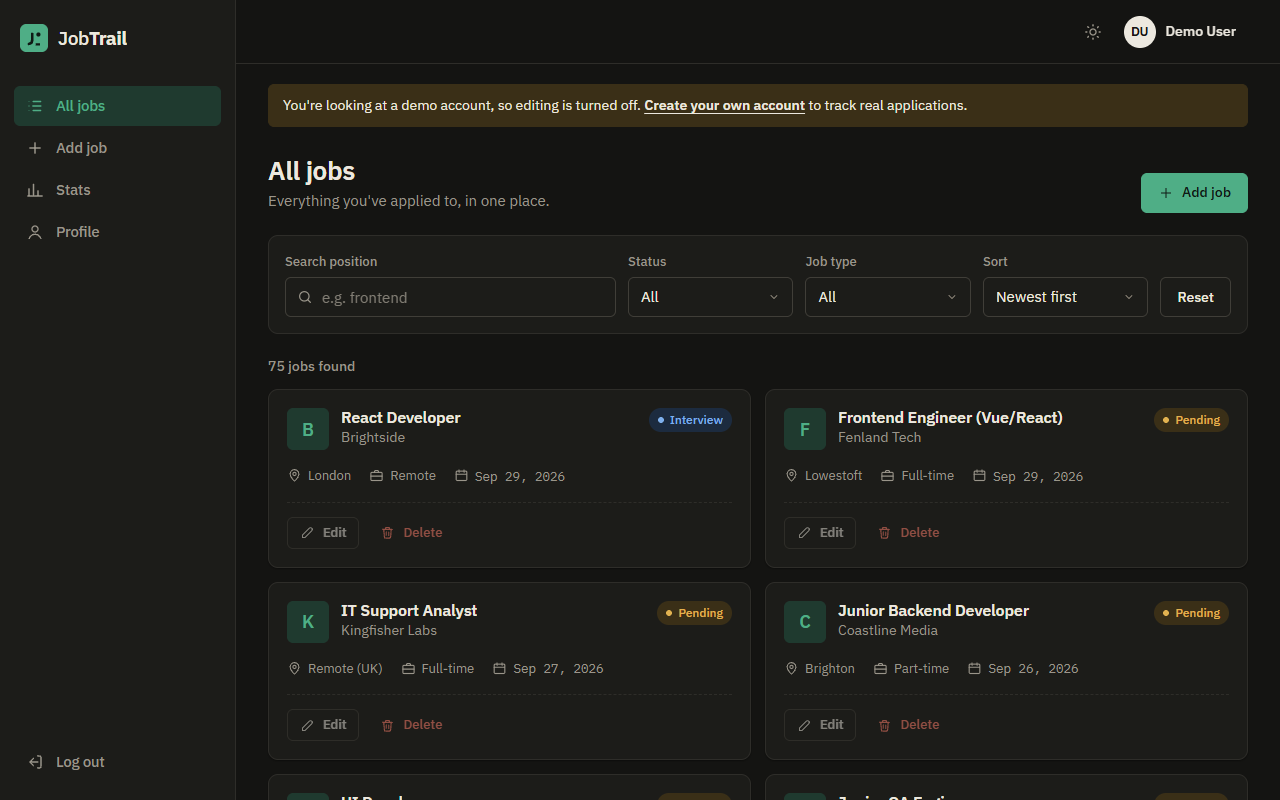
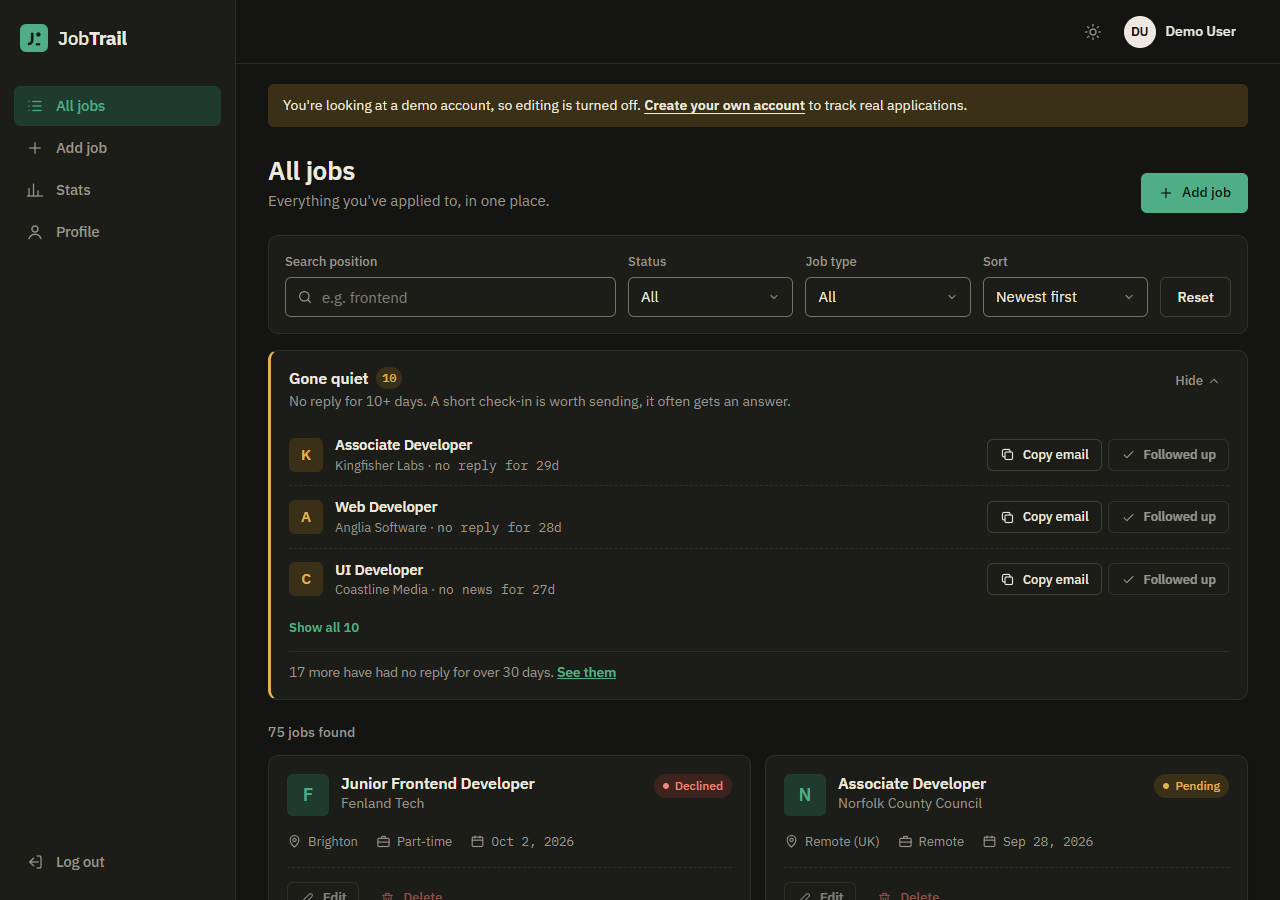
update readme and screenshots

diff --git a/README.md b/README.md
@@ -9,11 +9,12 @@ Built as a test task for a junior MERN position.
 
 > The app runs on Render's free plan, so the first request after a while can take up to a minute while the server wakes up.
 
-![All jobs page](docs/jobs-light.png)
+![All jobs page with the follow-up panel](docs/jobs-light.png)
 
 <details>
 <summary>More screenshots</summary>
 
+![Applications with no reply for a month](docs/ghosted-light.png)
 ![Dark theme](docs/jobs-dark.png)
 ![Stats](docs/stats-light.png)
 ![Landing](docs/landing-light.png)
@@ -33,6 +34,7 @@ Required by the task:
 
 Things I added on top:
 
+- **Follow-up reminders.** A job that has been quiet for 10+ days (no status change, no follow-up) shows up in a "Gone quiet" panel above the list, with a short check-in email ready to copy. "Followed up" resets the timer. Pending jobs with no answer for 30+ days get an aged card and a "no reply" stamp. The server records when a job first left `pending` (a pre-save hook), which also gives the median time to a reply on the Stats page.
 - Input validation on the server (express-validator) and in the forms, errors shown next to the field
 - helmet, rate limiting on `/auth`, `express-mongo-sanitize`, 10kb body limit
 - Read-only demo account + seed script
@@ -43,15 +45,15 @@ Things I added on top:
 
 ## Stack
 
-**Server:** Node 22, Express 4, Mongoose 8, jsonwebtoken, bcryptjs, express-async-errors, express-validator
+**Server:** Node 22, Express 4, Mongoose 9, jsonwebtoken, bcryptjs, express-async-errors, express-validator
 **Client:** React 19, Vite, react-router-dom 6, axios, recharts, dayjs. Plain CSS Modules, no UI library.
 
 ## Running locally
 
-You need Node 20+ and a MongoDB connection string (a free Atlas cluster works).
+You need Node 22.12+ and a MongoDB connection string (a free Atlas cluster works).
 
 ```bash
-git clone REPO_URL
+git clone https://github.com/bullsrust-lab/test.git jobtrail
 cd jobtrail
 npm install
 cp .env.example .env    # then fill in the values
@@ -61,7 +63,9 @@ npm run dev
 `npm run dev` starts both apps with `concurrently`:
 
 - API on http://localhost:5000
-- React on http://localhost:5173 (Vite proxies `/api` to the API)
+- React on http://localhost:5173 (Vite proxies `/api` to the API, using the same `PORT` from `.env`)
+
+If port 5000 is taken (on macOS the AirPlay Receiver uses it), set another `PORT` in `.env`.
 
 To get the demo account with sample data:
 
@@ -96,8 +100,8 @@ node -e "console.log(require('crypto').randomBytes(48).toString('base64url'))"
 | `npm run dev`   | API + client in watch mode                       |
 | `npm run build` | Builds the client into `client/dist`             |
 | `npm start`     | Runs the API, which also serves `client/dist` when `NODE_ENV=production` |
-| `npm run seed`  | Creates the demo user and 75 random jobs for it  |
-| `npm test`      | API tests                                        |
+| `npm run seed`  | Creates the demo user and 75 sample jobs for it (only the demo user's jobs are replaced) |
+| `npm test`      | API tests on an in-memory MongoDB, no `.env` needed. The first run downloads a MongoDB binary, so it takes a bit |
 | `npm run lint`  | oxlint over client and server                    |
 
 ## Project structure
@@ -110,11 +114,16 @@ client/
     context/      auth, theme and toast providers
     layouts/      dashboard layout (sidebar + top bar)
     pages/        one file per route
+    routes/       ProtectedRoute
+    utils/        follow-up rule, storage helpers, constants
 server/
+  config/       .env loading (the file is in the repo root) and DB connection
   controllers/  route handlers
+  errors/       error classes with status codes
   middleware/   auth, validation, demo user, errors
   models/       User, Job
   routes/
+  utils/        query building, follow-up rule, demo refresh
   seed/         demo data
   tests/
 ```
@@ -132,10 +141,12 @@ All routes are under `/api/v1`. Errors always come back as `{ "msg": "..." }`; v
 | PATCH  | `/users/me`       | yes  | `{ name, email }`, returns a new token  |
 | GET    | `/jobs`           | yes  | see query params below                  |
 | POST   | `/jobs`           | yes  | 201                                     |
-| GET    | `/jobs/stats`     | yes  | counts per status + last 6 months       |
+| GET    | `/jobs/stats`     | yes  | counts per status, last 6 months, median days to a reply |
+| GET    | `/jobs/follow-ups` | yes  | jobs quiet for 10-30 days + count of 30+ day ones |
 | GET    | `/jobs/:id`       | yes  | owner only                              |
 | PATCH  | `/jobs/:id`       | yes  | owner only                              |
 | DELETE | `/jobs/:id`       | yes  | owner only                              |
+| POST   | `/jobs/:id/follow-up` | yes | owner only, resets the follow-up timer |
 | GET    | `/health`         | no   | used by Render's health check           |
 
 `GET /jobs` query params: `status` (`all`, `pending`, `interview`, `declined`), `jobType` (`all`, `full-time`, `part-time`, `remote`), `sort` (`latest`, `oldest`, `a-z`, `z-a`), `search`, `page` (default 1), `limit` (default 10, max 50).
@@ -144,7 +155,7 @@ All routes are under `/api/v1`. Errors always come back as `{ "msg": "..." }`; v
 { "jobs": [], "totalJobs": 42, "numOfPages": 5 }
 ```
 
-Status codes: 200, 201, 400 (validation, bad id), 401 (no/invalid token, wrong credentials), 403 (someone else's job, demo user writes), 404, 429 (too many auth attempts).
+Status codes: 200, 201, 400 (validation, bad id), 401 (no/invalid token, wrong credentials), 403 (someone else's job, demo user writes), 404, 413 (body over 10 kB), 429 (too many failed auth attempts).
 
 ## Deploying to Render
 
@@ -152,12 +163,14 @@ One Web Service serves both the API and the built React app, so there's no CORS 
 
 Or set it up by hand:
 
-- Build command: `npm install --include=dev && npm run build` (dev deps are needed for the Vite build)
+- Build command: `npm ci --include=dev && npm run build` (dev deps are needed for the Vite build)
 - Start command: `npm start`
 - Health check path: `/api/v1/health`
-- Environment: the variables above with `NODE_ENV=production` (Render sets `PORT` itself)
+- Environment: the variables above with `NODE_ENV=production` (Render sets `PORT` itself), plus `MONGOMS_DISABLE_POSTINSTALL=1` so the test-only in-memory MongoDB isn't downloaded on every build
 
 In Atlas, Network Access has to allow `0.0.0.0/0` because Render's outbound IPs aren't fixed on the free plan.
+
+The demo account needs data: run `npm run seed` once locally with `MONGO_URI` in `.env` set to the same database Render uses. Without it the demo button answers 404. After that the demo keeps itself fresh: on demo login the sample dates are moved forward (at most every 12 hours), so the follow-up panel always has something to show.
 
 ## Notes
 
@@ -165,3 +178,4 @@ In Atlas, Network Access has to allow `0.0.0.0/0` because Render's outbound IPs 
 - No end-to-end tests yet. The API is covered, the UI I tested by hand. Next step would be a few Playwright tests for login → add → edit → delete.
 - Search uses a case-insensitive regex on `position`. Fine for a personal list, but with a lot of data a text index would be better.
 - The demo account is shared, so it's read-only on the server, not just hidden buttons in the UI.
+- The follow-up thresholds (10 and 30 days) are constants on both sides. With more time they'd be a user setting, and the reminder could be an email instead of a panel you have to open.
